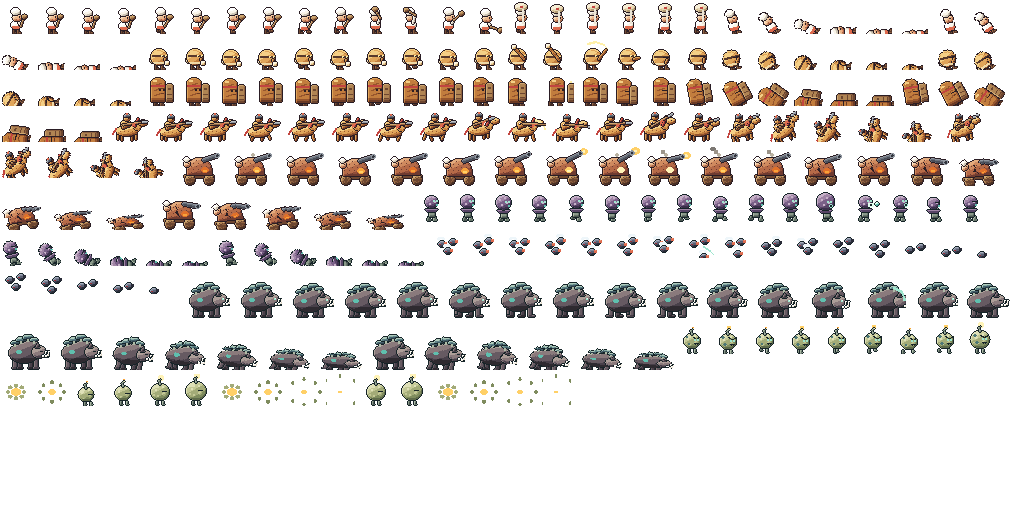
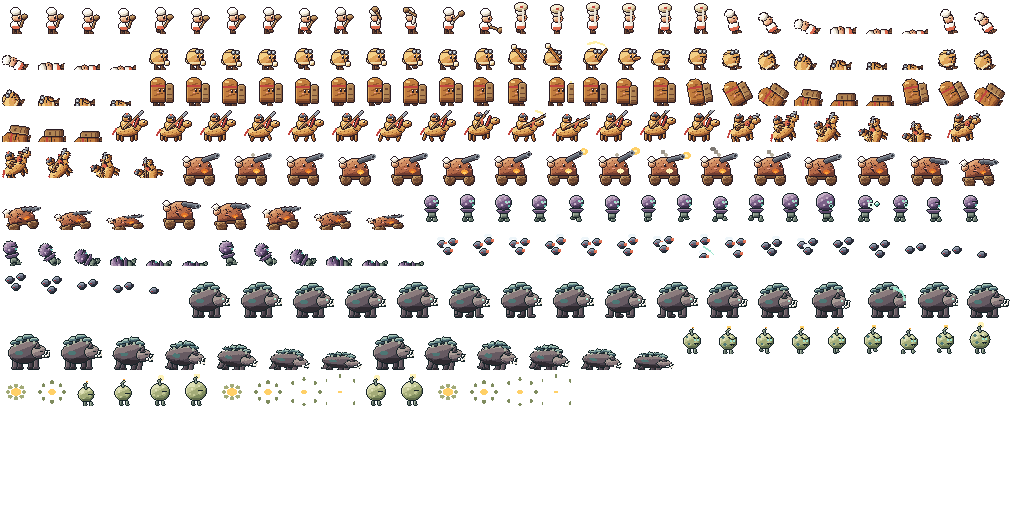
[Feat] 전투 유닛 얼굴을 귀엽게: 하이라이트 눈·볼 홍조, 롤빵병·화덕포·프레첼 얼굴 정리

diff --git a/tools/art/release_slice/chars2.py b/tools/art/release_slice/chars2.py
@@ -22,7 +22,7 @@ from PIL import Image
 
 sys.path.insert(0, os.path.dirname(os.path.abspath(__file__)))
 from lib import INK, INK_MOULD, RAMP, Img, hexc, m_curve, m_ellipse, m_line, m_poly, m_rect, mass, put, shift, step  # noqa: E402
-from chars import ARC_ALLY, ARC_FOE, _ang, _fall, _walk_legs  # noqa: E402  (also registers skin / white ramps)
+from chars import ARC_ALLY, ARC_FOE, _ang, _fall, _walk_legs, blush, eye  # noqa: E402  (also registers skin / white ramps)
 
 RAMP["fly"] = [hexc(c) for c in ("2a2c38", "3e4152", "5a5f72", "7d8496", "a9b0c0")]
 RAMP["wing"] = [hexc(c) for c in ("9fb4c4", "bcd0dc", "d6e6ee", "eef6fa", "ffffff")]
@@ -50,8 +50,12 @@ def worker(bob=0, lean=0, legs=((0, 0), (0, 0)), sack=None, tool=None, eyes=True
     put(img, m_rect(W, H, 10 + lean, 24 + b, 9, 4) & body, RAMP["cloth"][3])        # apron... in jam red, the bakery colour
     head = m_ellipse(W, H, hx + 1, 15.5 + b, 4.5, 4)
     mass(img, head, "skin", "round", INK, base=2)
-    put(img, m_rect(W, H, hx + 3, 14 + b, 1, 2) if eyes else m_rect(W, H, hx + 2, 15 + b, 2, 1), INK)
-    put(img, m_rect(W, H, hx + 1, 17 + b, 2, 1), RAMP["cloth"][4])
+    if eyes:
+        eye(img, hx + 2, 14 + b)
+    else:
+        put(img, m_rect(W, H, hx + 2, 15 + b, 2, 1), INK)
+    blush(img, hx, 17 + b)
+    blush(img, hx + 4, 17 + b, 1)
     # short toque (half the captain's), flopped back
     tq = m_ellipse(W, H, hx - 0.5, 9.5 + b, 4.5, 3.5) | m_rect(W, H, hx - 3, 10 + b, 7, 2)
     mass(img, tq, "white", "round", INK, base=3)
@@ -103,13 +107,19 @@ def roll(bob=0, lean=0, legs=((0, 0), (0, 0)), hand=(21, 16), ball=None, eyes=Tr
     put(img, m_ellipse(W, H, cx - 3, 14 + b, 2, 1) & body, RAMP["crust"][4])
     put(img, m_rect(W, H, cx - 6, 24 + b, 13, 2) & body, RAMP["crumb"][2])
     # face: goggles band (a slinger), two eyes
-    put(img, m_rect(W, H, cx - 7, 17 + b, 15, 2) & body, RAMP["timber"][1])
+    put(img, m_rect(W, H, cx - 7, 13 + b, 15, 1) & body, RAMP["timber"][1])         # goggle strap on the brow
+    for gx0 in (cx + 1, cx + 5):
+        g = m_rect(W, H, gx0, 12 + b, 3, 3)
+        mass(img, g, "iron", "flat", INK, base=3)
+        put(img, m_rect(W, H, gx0 + 1, 13 + b, 1, 1), RAMP["wing"][4])
     if eyes:
-        put(img, m_rect(W, H, cx + 2, 17 + b, 2, 2) | m_rect(W, H, cx + 6, 17 + b, 2, 2), RAMP["wheat"][4])
-        put(img, m_rect(W, H, cx + 3, 18 + b, 1, 1) | m_rect(W, H, cx + 7, 18 + b, 1, 1), INK)
+        eye(img, cx + 2, 17 + b)
+        eye(img, cx + 6, 17 + b)
     else:
         put(img, m_rect(W, H, cx + 2, 18 + b, 6, 1), INK)
-    put(img, m_rect(W, H, cx + 4, 22 + b, 2, 1), RAMP["crust"][0])
+    blush(img, cx, 20 + b)
+    blush(img, cx + 8, 20 + b, 1)
+    put(img, m_rect(W, H, cx + 4, 21 + b, 2, 1), RAMP["crust"][0])
     if arc:
         put(img, m_curve(W, H, arc, 2.2, 1.0), ARC_ALLY)
     gx, gy = hand[0] + lean, hand[1] + b
@@ -156,10 +166,12 @@ def loaf(bob=0, lean=0, legs=((0, 0), (0, 0)), shield=(20, 0), eyes=True, arc=No
     put(img, m_rect(W, H, x0, 11 + b, 14, 2) & body, RAMP["cloth"][2])
     if eyes:
         put(img, m_rect(W, H, x0 + 7, ey - 1, 4, 1) | m_rect(W, H, x0 + 11, ey - 1, 3, 1), RAMP["crust"][0])
-        put(img, m_rect(W, H, x0 + 8, ey, 2, 2) | m_rect(W, H, x0 + 12, ey, 2, 2), INK)
+        eye(img, x0 + 8, ey)
+        eye(img, x0 + 12, ey)
     else:
         put(img, m_rect(W, H, x0 + 8, ey + 1, 6, 1), INK)
-    put(img, m_rect(W, H, x0 + 10, ey + 4, 3, 1), RAMP["crust"][0])
+    blush(img, x0 + 6, ey + 3)
+    put(img, m_rect(W, H, x0 + 10, ey + 4, 2, 1), RAMP["crust"][0])
     if arc:
         put(img, m_curve(W, H, arc, 2.4, 1.0), ARC_ALLY)
     # the cutting-board shield: thick plank with a handle hole, held in front
@@ -192,7 +204,7 @@ def loaf_frames():
     return f
 
 
-def pretzel(gait=0.0, bob=0, lance=-8.0, reach=0, eyes=True, arc=None, rear=0):
+def pretzel(gait=0.0, bob=0, lance=-42.0, reach=0, eyes=True, arc=None, rear=0):
     W, H = 40, 32
     img = Img(W, H)
     b = bob
@@ -212,7 +224,7 @@ def pretzel(gait=0.0, bob=0, lance=-8.0, reach=0, eyes=True, arc=None, rear=0):
     mass(img, neck, "crust", "flat", INK, base=3)
     head = m_ellipse(W, H, 33, 13 + b - rear * 2, 4.5, 3)
     mass(img, head, "crust", "round", INK, base=3)
-    put(img, m_rect(W, H, 33, 12 + b - rear * 2, 1, 1), INK)
+    eye(img, 33, 11 + b - rear * 2, h=2)
     mane = m_line(W, H, 25, 16 + b - rear, 28, 9 + b - rear * 2, 2.0)
     mass(img, mane, "cloth", "flat", INK, base=2)
     put(img, m_line(W, H, 6, 19 + b, 3, 24 + b, 2), RAMP["cloth"][2])        # tail ribbon
@@ -220,15 +232,21 @@ def pretzel(gait=0.0, bob=0, lance=-8.0, reach=0, eyes=True, arc=None, rear=0):
     rx, ry = 16, 11 + b - rear
     knot = m_ellipse(W, H, rx - 2, ry + 3, 3.5, 3) | m_ellipse(W, H, rx + 2, ry + 3, 3.5, 3) | m_line(W, H, rx - 3, ry + 7, rx + 3, ry + 4, 2.4)
     holes = m_ellipse(W, H, rx - 2, ry + 3, 1.2, 1) | m_ellipse(W, H, rx + 2, ry + 3, 1.2, 1)
-    lvk = mass(img, knot & ~holes, "crust", "round", INK, base=2)
+    lvk = mass(img, knot, "crust", "round", INK, base=2)
+    put(img, m_line(W, H, rx - 4, ry + 1, rx + 4, ry + 6, 1.0) & knot, RAMP["crust"][4])
+    put(img, m_line(W, H, rx + 4, ry + 1, rx - 4, ry + 6, 1.0) & knot, RAMP["crust"][4])
     for sx in (-3, 1, 3):
         put(img, m_rect(W, H, rx + sx, ry + 2, 1, 1), RAMP["white"][4])
-    hd = m_ellipse(W, H, rx + 1, ry - 3, 3, 3)
+    hd = m_ellipse(W, H, rx + 1, ry - 3, 4, 3.5)
     mass(img, hd, "crust", "round", INK, base=3)
     helm = m_ellipse(W, H, rx + 1, ry - 5, 3.2, 2) & m_rect(W, H, 0, 0, W, ry - 4)
     mass(img, helm, "iron", "round", INK, base=3)
     put(img, m_rect(W, H, rx, ry - 8, 2, 2), RAMP["cloth"][3])
-    put(img, m_rect(W, H, rx + 2, ry - 3, 1, 1) if eyes else m_rect(W, H, rx + 1, ry - 3, 2, 1), INK)
+    if eyes:
+        eye(img, rx + 2, ry - 4)
+        blush(img, rx + 1, ry - 1)
+    else:
+        put(img, m_rect(W, H, rx + 1, ry - 3, 2, 1), INK)
     if arc:
         put(img, m_curve(W, H, arc, 2.0, 1.0), ARC_ALLY)
     # lance, couched under the arm, pennant near the grip
@@ -246,13 +264,13 @@ def pretzel(gait=0.0, bob=0, lance=-8.0, reach=0, eyes=True, arc=None, rear=0):
 def pretzel_frames():
     f = {"idle/0": pretzel(gait=-1), "idle/1": pretzel(gait=-1, bob=1)}
     for i in range(6):
-        f[f"walk/{i}"] = pretzel(gait=i / 6, bob=1 if i % 3 == 1 else 0, lance=-6)
-    f["attack/0"] = pretzel(gait=-1, rear=1, lance=-20, reach=-2)
-    f["attack/1"] = pretzel(gait=0.25, lance=2, reach=4, arc=[(30, 10), (37, 14), (39, 19)])
-    f["attack/2"] = pretzel(gait=0.5, bob=1, lance=6, reach=3)
-    f["attack/3"] = pretzel(gait=-1, lance=-4)
-    f["hit/0"] = pretzel(gait=-1, rear=1, lance=-30, eyes=False)
-    f["hit/1"] = pretzel(gait=-1, lance=-16, eyes=False)
+        f[f"walk/{i}"] = pretzel(gait=i / 6, bob=1 if i % 3 == 1 else 0, lance=-42)
+    f["attack/0"] = pretzel(gait=-1, rear=1, lance=-55, reach=-2)
+    f["attack/1"] = pretzel(gait=0.25, lance=-28, reach=4, arc=[(30, 1), (36, 3), (39, 7)])
+    f["attack/2"] = pretzel(gait=0.5, bob=1, lance=-26, reach=3)
+    f["attack/3"] = pretzel(gait=-1, lance=-42)
+    f["hit/0"] = pretzel(gait=-1, rear=1, lance=-50, eyes=False)
+    f["hit/1"] = pretzel(gait=-1, lance=-50, eyes=False)
     base = pretzel(gait=-1, lance=-20, eyes=False)
     for i, (deg, sq) in enumerate(((10, 1.0), (24, 1.0), (40, 0.95), (60, 0.85), (70, 0.75))):
         f[f"death/{i}"] = _fall(base, 18, 31, deg, sq)
@@ -284,9 +302,16 @@ def oven(roll_ph=0.0, recoil=0, aim=-18.0, fire=0, smoke=0, broken=False, bob=0)
             put(img, m_rect(W, H, xx, yy + b, 1, 1) & dome, RAMP["brick"][0])
     if broken:
         put(img, m_poly(W, H, [(x0 + 10, 13 + b), (x0 + 14, 20 + b), (x0 + 11, 22 + b), (x0 + 16, 27 + b)]) & dome, INK)
-    mouth = m_ellipse(W, H, x0 + 21, 24 + b, 4, 3) & m_rect(W, H, 0, 0, W, 27 + b)
+    if not broken:
+        eye(img, x0 + 15, 18 + b)
+        eye(img, x0 + 24, 18 + b)
+    else:
+        put(img, m_rect(W, H, x0 + 15, 19 + b, 2, 1) | m_rect(W, H, x0 + 24, 19 + b, 2, 1), INK)
+    blush(img, x0 + 12, 22 + b, 3)
+    blush(img, x0 + 26, 22 + b, 2)
+    mouth = m_ellipse(W, H, x0 + 20.5, 25 + b, 3.5, 2.5) & m_rect(W, H, 0, 0, W, 28 + b)
     put(img, mouth, RAMP["fire"][1 + min(3, fire)])
-    put(img, m_ellipse(W, H, x0 + 21, 25 + b, 2, 1) & mouth, RAMP["fire"][min(4, 2 + fire)])
+    put(img, m_ellipse(W, H, x0 + 20.5, 26 + b, 2, 1) & mouth, RAMP["fire"][min(4, 2 + fire)])
     # barrel: an iron chimney pipe swung forward
     px, py = x0 + 20, 14 + b
     e = _ang(px, py, aim, 14)
@@ -444,7 +469,7 @@ def boar(bob=0, lean=0, gait=0.0, head=0, mouth=0, eyes=True, arc=None):
         cp = m_ellipse(W, H, mx + lean, my + b, r, r * 0.6) & m_rect(W, H, 0, 0, W, my + b + 1)
         mass(img, cp, "cap", "round", INK_MOULD, base=2 + (k % 2))
         put(img, m_rect(W, H, mx + lean - 1, my + b + 1, 2, 3), RAMP["hypha"][3])
-    put(img, m_ellipse(W, H, 18 + lean, 30 + b, 3, 2) & body, RAMP["organ"][2])          # rot patch glow
+    put(img, m_ellipse(W, H, 18 + lean, 31 + b, 4, 2) & body, RAMP["mould"][2])          # rot patch
     # head: low, heavy, snout forward, two pale tusks
     hx, hy = 38 + lean + head, 30 + b + abs(head) // 2
     hd = m_ellipse(W, H, hx, hy, 7, 6) | m_rect(W, H, hx + 2, hy - 1, 7, 6)

diff --git a/tools/art/release_slice/chars.py b/tools/art/release_slice/chars.py
@@ -32,6 +32,20 @@ ARC_ALLY = hexc("fff0a8")
 ARC_FOE = hexc("9fe6cf")
 
 
+HILITE = hexc("ffffff")
+BLUSH = hexc("f2a08a")
+
+
+def eye(img, x, y, ink=INK, h=3, hi=HILITE):
+    """The shared cute eye: 2 px wide, h tall, a white catch-light in the upper-left pixel."""
+    put(img, m_rect(img.w, img.h, int(x), int(y), 2, h), ink)
+    put(img, m_rect(img.w, img.h, int(x), int(y), 1, 1), hi)
+
+
+def blush(img, x, y, w=2):
+    put(img, m_rect(img.w, img.h, int(x), int(y), w, 1), BLUSH)
+
+
 def _ang(x, y, deg, ln):
     r = math.radians(deg)
     return x + math.cos(r) * ln, y + math.sin(r) * ln
@@ -96,11 +110,11 @@ def hero(bob=0, lean=0, legs=((0, 0), (0, 0)), hand=(29, 36), pin=-48.0, cape=0,
     head = m_ellipse(W, H, hx + 1, 23.5 + b, 7.0, 5.5)
     mass(img, head, "skin", "round", INK, base=2)
     if eyes:
-        put(img, m_rect(W, H, int(hx) + 4, 20 + b, 2, 3), INK)
+        eye(img, int(hx) + 4, 20 + b)
     else:
         put(img, m_rect(W, H, int(hx) + 3, 22 + b, 3, 1), INK)
     put(img, m_rect(W, H, int(hx) + 6, 23 + b, 2, 2), RAMP["skin"][1])                 # nose
-    put(img, m_rect(W, H, int(hx) + 1, 24 + b, 2, 1), RAMP["cloth"][4])                # cheek
+    blush(img, int(hx) + 1, 23 + b)                                                       # cheek
     mo = m_rect(W, H, int(hx) + 1, 25 + b, 8, 2) | m_rect(W, H, int(hx), 26 + b, 3, 2) | m_rect(W, H, int(hx) + 7, 26 + b, 2, 2)
     put(img, mo, RAMP["wood"][0])
     put(img, m_rect(W, H, int(hx) + 2, 25 + b, 5, 1), RAMP["wood"][2])
@@ -196,11 +210,13 @@ def toast(bob=0, lean=0, legs=((0, 0), (0, 0)), hand=(21, 21), knife=-88.0, arc=
     # face on the right half (it looks where it walks)
     ey = 18 + b
     if eyes:
-        put(img, m_rect(W, H, x0 + 7, ey, 2, 2) | m_rect(W, H, x0 + 11, ey, 2, 2), INK)
+        eye(img, x0 + 7, ey - 1)
+        eye(img, x0 + 11, ey - 1)
     else:
         put(img, m_rect(W, H, x0 + 7, ey + 1, 2, 1) | m_rect(W, H, x0 + 10, ey + 1, 2, 1), INK)
     put(img, m_rect(W, H, x0 + 9, ey + 4, 2, 1), RAMP["crust"][0])
-    put(img, m_rect(W, H, x0 + 6, ey + 3, 2, 1), RAMP["cloth"][4])
+    blush(img, x0 + 5, ey + 3)
+    blush(img, x0 + 12, ey + 3)
     # red headband with a knot tail behind
     hb = m_rect(W, H, x0, 15 + b, 15, 2) & sl
     put(img, hb, RAMP["cloth"][2])

diff --git a/docs/art/release_slice/HANDOFF.md b/docs/art/release_slice/HANDOFF.md
@@ -35,3 +35,9 @@
 - **카드 초상**: `tools/art/release_slice/ui_portraits.py` → `slice_ui.png/.json`(ui_main 복사본, `card_*`·`portrait_e_*` 12칸만 교체, 배지 모양·색은 유지). 어댑터 `apply_ui()`가 `ui_main` 페이지 텍스처를 잠시 바꾼다(`start_round` 전에 호출). 통합 시에는 `ui_main.png`의 해당 칸을 교체하면 된다.
 - **캡처(실제 게임)**: `captures/units/` — `r15_army_before|after_640x360.png`, `pair_r25_army.png`, `cards_old_top_new_bottom_3x.png`. `units_old_3x.png`·`units_new_3x.png`는 에셋 시트(게임 화면 아님).
 - **남은 것**: 보스(곰팡이 장군·부패 대군주와 이를 쓰는 4보스), 도전 적 7종(`char_challenge`), 스킬 아이콘·HUD 패널 프레임, FX(`fx_combat`), 타이틀. 약한 점: 프레첼 기사 몸통(매듭)이 작아 매듭으로 안 읽힌다. 통식빵은 정면이 넓은 상자라 동작이 작다.
+
+## 전투 화면 귀여움 보정(2026-11-13)
+- 공통 얼굴 규칙: 눈 2×3 + 왼쪽 위 흰 하이라이트(`chars.py`의 `eye()`), 볼 홍조(`blush()`). 영웅·식빵병·제빵사·롤빵병·통식빵·프레첼(기사·조랑말)·화덕포에 적용. 적은 기존 발광 눈 유지.
+- 개별 수정: 롤빵병 고글을 이마로 올려 눈이 보이게, 화덕포는 화덕 자체에 얼굴(눈·볼·입=화구), 프레첼은 매듭 구멍(두 번째 얼굴처럼 보이던 것)을 지우고 창을 비스듬히 들어 조랑말 얼굴이 보이게, 멧돼지 몸의 청록 반점(눈처럼 보이던 것)을 어두운 곰팡이 얼룩으로.
+- 캡처: `captures/units/army_3x_before_cute.png`·`army_3x_after_cute.png`(실제 R15 전투 3배 확대), `r15_army_after_640x360.png`.
+- 카드 초상: 사용자 의견(기존이 더 귀엽다)에 따라 보류 대상. `slice_ui`는 새 얼굴로 재생성만 했고 전용 초상은 그리지 않았다.
